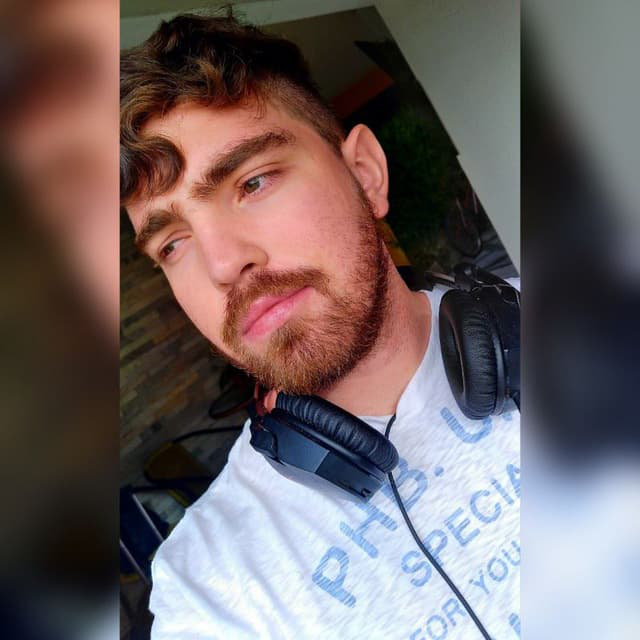
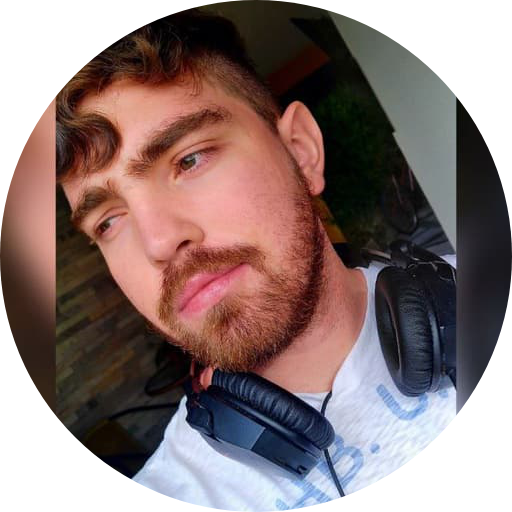
Small changes on co-organizers and assets/images

diff --git a/lib/app/modules/home/widgets/co_organizers/widgets/co_organizer_item.dart b/lib/app/modules/home/widgets/co_organizers/widgets/co_organizer_item.dart
@@ -34,7 +34,7 @@ class _CoOrganizerItemState
           SizedBox(height: 26 * fontScale),
           CircleAvatar(
             radius: 30 * fontScale,
-            child: Image.asset(
+            child: Image.network(
               coOrganizer.pathImage,
               height: 56 * fontScale,
               fit: BoxFit.fitHeight,

diff --git a/lib/app/modules/home/widgets/header/header_controller.dart b/lib/app/modules/home/widgets/header/header_controller.dart
@@ -31,7 +31,6 @@ abstract class _HeaderControllerBase with Store {
     final result = await _getInstaFollowers();
     result.fold(
       (l) {
-        print("erro em getInstaFollowers: ${l.message}");
         socialMediaState.onError();
       },
       (r) {

diff --git a/lib/app/modules/home/widgets/latest_channel_videos/latest_channel_videos_controller.dart b/lib/app/modules/home/widgets/latest_channel_videos/latest_channel_videos_controller.dart
@@ -31,7 +31,5 @@ abstract class _LatestChannelVideosControllerBase with Store {
     response.fold(
       (l) => error = l.toString(), 
       (r) => youtube = r.asObservable());
-
-    print(youtube);
   }
 }
